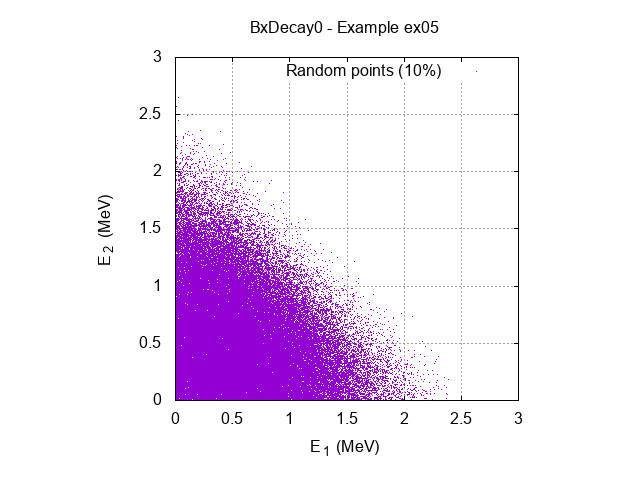
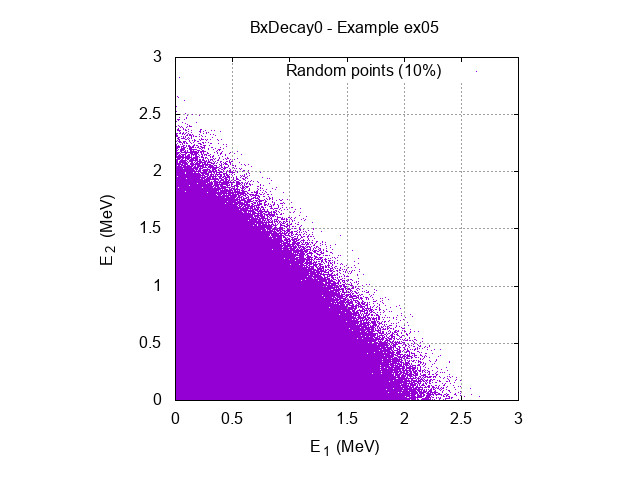
Update ex05

Changed region(s): [[0.25, 0.25, 0.7188, 0.8438], [0.1562, 0.4062, 0.1875, 0.5625]]

diff --git a/examples/ex05/README.rst b/examples/ex05/README.rst
@@ -44,19 +44,18 @@ its  tabulated 2-dimension  c.d.f. to  represent the  distribution of
 individual kinetic energies of the  emitted beta particles in ``"g0"``
 mode.
 
-#. Run the executable ``ex05``:
+#. Run the executable ``ex05`` (10 :sup:`7` generated events):
 
    .. code:: bash
 
       $ ./_build.d/ex05
    ..
 
-#. Output files:
+#. Output file: ``bxdecay_ex05.data`` :
 
-   * ``bxdecay_ex05_1.data`` : randomized (E1,E2) kinetic energies of the betas		
-   * ``bxdecay_ex05_2.data`` : generated individual kinetic energies of the betas		
-   * ``bxdecay_ex05_3.data`` : sum of generated individual kinetic energy of the betas
-   * ``bxdecay_ex05_4.data`` : generated cosines of the angle between individual momenta of the betas
+   * randomized (E1,E2) kinetic energies of the betas, 		
+   * sum of generated individual kinetic energy of the betas,
+   * cosine of the angle between individual momenta of the emitted betas (skipped by 1).
 
 #. Sample images:
 	 
@@ -70,11 +69,21 @@ mode.
       :width: 75%
 
       Histograms of generated E1 and E2 individual kinetic energies
+      
+   .. figure:: images/bxdecay0_ex05_e1e2_zoom.jpg
+      :width: 75%
+
+      Histograms of generated E1 and E2 individual kinetic energies (zoom at low energy)
 
    .. figure:: images/bxdecay0_ex05_esum.jpg
       :width: 75%
 	      
       Histogram of the sum of generated kinetic energies 
+
+   .. figure:: images/bxdecay0_ex05_esum_zoom.jpg
+      :width: 75%
+	      
+      Histogram of the sum of generated kinetic energies (zoom at low energy)
 
    .. figure:: images/bxdecay0_ex05_cos12.jpg
       :width: 75%
